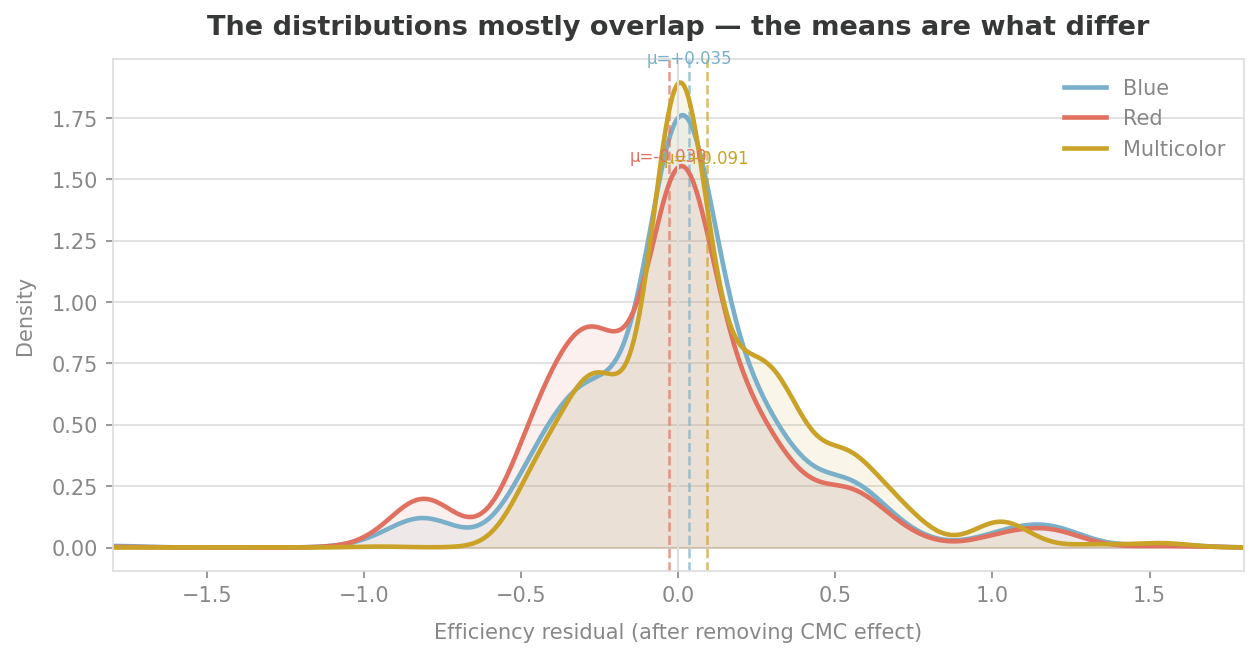
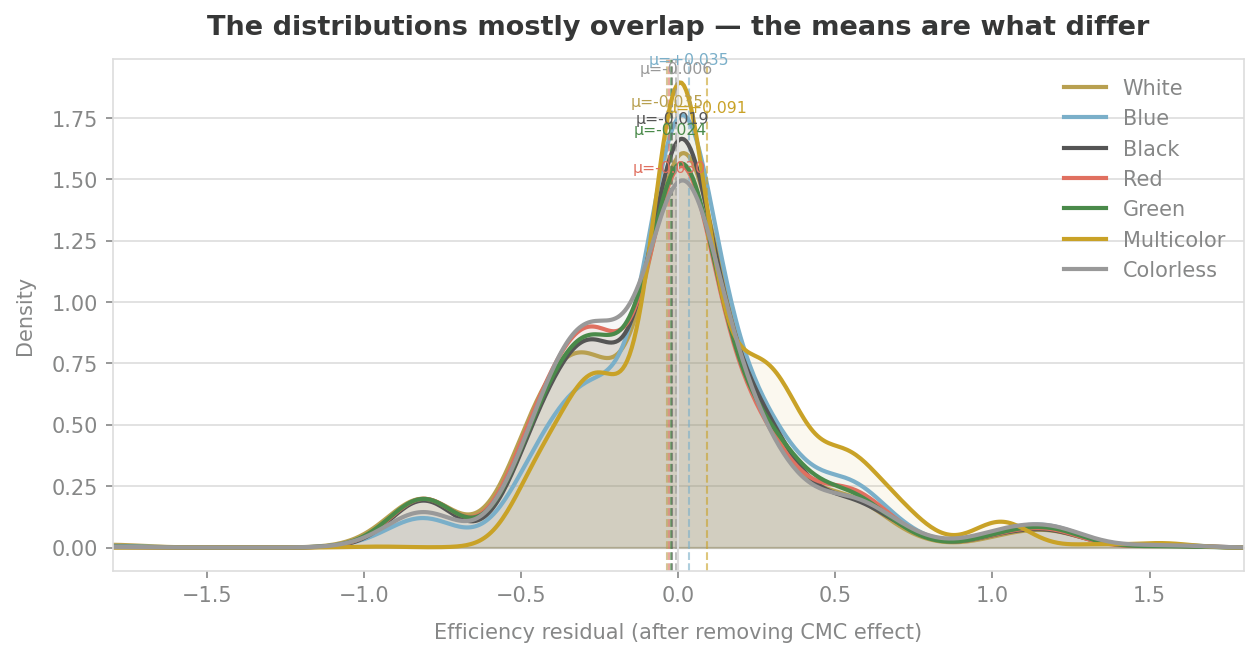
fix: show all 7 color identities in density curves chart
Previously only Blue, Red, and Multicolor were plotted. Now all seven
colors are shown, which more honestly supports the "distributions mostly
overlap" claim. Updated alt text and body copy to match.

Changed region(s): [[0.093, 0.0609, 0.9921, 0.8524], [0.837, 0.1218, 0.9921, 0.4262]]

diff --git a/analysis/mtg-color-efficiency/charts.py b/analysis/mtg-color-efficiency/charts.py
@@ -176,16 +176,30 @@ plt.close(fig)
 print(f"Saved: {OUT / 'color_residual_means.png'}")
 
 # ---------------------------------------------------------------------------
-# Chart 3 — Density curves: Blue vs others
+# Chart 3 — Density curves: all seven color identities
 # ---------------------------------------------------------------------------
-# Show Blue + the two most different colors (Red = lowest, Multicolor = highest non-Blue)
-SHOW_COLORS = ["Blue", "Red", "Multicolor"]
+SHOW_COLORS = COLOR_ORDER  # all seven
 
 # MTG-adjacent colors that read well on white
 CURVE_COLORS = {
+    "White":      "#B8A050",
     "Blue":       ACCENT_DARK,
+    "Black":      "#555555",
     "Red":        "#E07060",
+    "Green":      "#4A8A4A",
     "Multicolor": "#C9A227",
+    "Colorless":  "#999999",
+}
+
+# Stagger mean labels vertically to reduce overlap
+LABEL_Y_OFFSETS = {
+    "White":      0.30,
+    "Blue":       0.22,
+    "Black":      0.10,
+    "Red":        0.04,
+    "Green":      0.16,
+    "Multicolor": 0.36,
+    "Colorless":  0.44,
 }
 
 fig, ax = plt.subplots(figsize=(8.5, 4.5), facecolor="white")
@@ -200,14 +214,12 @@ for color_name in SHOW_COLORS:
     c = CURVE_COLORS[color_name]
     mean_val = sub.mean()
 
-    ax.plot(x_range, density, color=c, linewidth=2.2, label=color_name)
-    ax.fill_between(x_range, density, alpha=0.10, color=c)
+    ax.plot(x_range, density, color=c, linewidth=2.0, label=color_name)
+    ax.fill_between(x_range, density, alpha=0.07, color=c)
 
-    # Mean tick — stagger label heights to avoid overlap
-    label_y_offsets = {"Blue": 0.22, "Red": 0.08, "Multicolor": 0.15}
-    ax.axvline(mean_val, color=c, linewidth=1.2, linestyle="--", alpha=0.7)
-    ax.text(mean_val, kde(np.array([mean_val]))[0] + label_y_offsets[color_name],
-            f"μ={mean_val:+.3f}", fontsize=8, color=c, ha="center", va="bottom")
+    ax.axvline(mean_val, color=c, linewidth=1.0, linestyle="--", alpha=0.6)
+    ax.text(mean_val, kde(np.array([mean_val]))[0] + LABEL_Y_OFFSETS[color_name],
+            f"μ={mean_val:+.3f}", fontsize=7.5, color=c, ha="center", va="bottom")
 
 ax.axvline(0, color=BORDER, linewidth=1.0)
 ax.set_xlabel("Efficiency residual (after removing CMC effect)", labelpad=8,

diff --git a/src/content/blog/mtg-color-efficiency.md b/src/content/blog/mtg-color-efficiency.md
@@ -59,9 +59,9 @@ The explanation is structural. Multicolor cards require you to produce two or mo
 
 To make the effect size tangible:
 
-![Density curves for Blue, Red, and Multicolor efficiency distributions](/images/mtg-color-efficiency/color_density_curves.png)
+![Density curves for all seven color identity groups showing heavily overlapping efficiency distributions](/images/mtg-color-efficiency/color_density_curves.png)
 
-The three distributions are nearly identical in shape. The peaks overlap almost perfectly. What differs is where each mean sits — by a few hundredths on the residual axis, well within a single standard deviation of any group. That's the 1%.
+All seven distributions are nearly identical in shape. The peaks overlap almost perfectly. What differs is where each mean sits — by a few hundredths on the residual axis, well within a single standard deviation of any group. That's the 1%.
 
 Red has a slightly fatter left tail, meaning more Red cards with zero abilities relative to their CMC — creature-heavy sets where vanilla or French vanilla cards (no abilities beyond basic keyword(s)) are more common in the color. That's a real design pattern, but it shows up as a shape difference rather than a mean difference.
 
